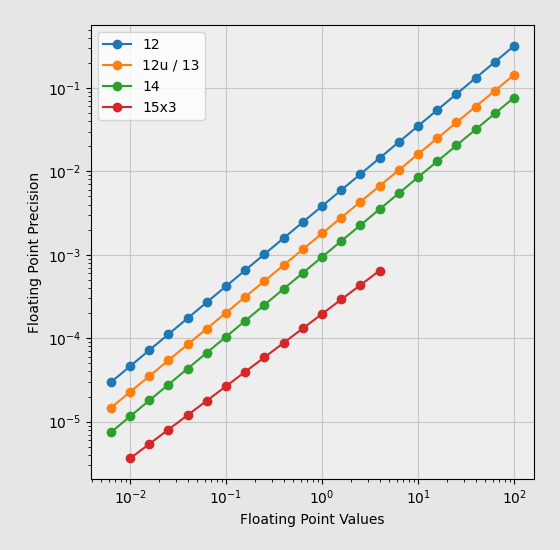
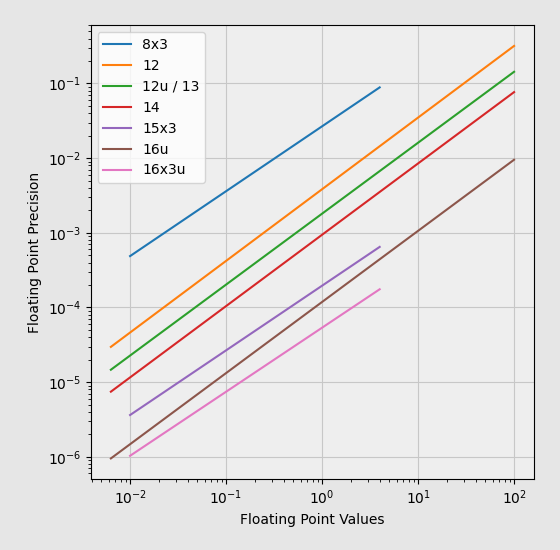
README.md

diff --git a/conversion_test.go b/conversion_test.go
@@ -47,15 +47,15 @@ func getToyfloatPositiveSample() []struct {
 // ------------------------
 
 func TestX3BadArguments(t *testing.T) {
-	for i := -10; i <= 4; i++ {
-		if i <= 4 {
+	for i := -10; i <= 20; i++ {
+		if (i <= 4) || (i > 16) {
 			_, e := NewTypeX3(i, true)
 			if e == nil {
 				t.Fatalf("length=%d must result in an error", i)
 			}
 		}
 
-		if i <= 3 {
+		if (i <= 3) || (i > 16) {
 			_, e := NewTypeX3(i, false)
 			if e == nil {
 				t.Fatalf("length=%d must result in an error (unsigned)", i)
@@ -65,15 +65,15 @@ func TestX3BadArguments(t *testing.T) {
 }
 
 func TestX4BadArguments(t *testing.T) {
-	for i := -10; i <= 4; i++ {
-		if i <= 5 {
+	for i := -10; i <= 20; i++ {
+		if (i <= 5) || (i > 16) {
 			_, e := NewTypeX4(i, true)
 			if e == nil {
 				t.Fatalf("length=%d must result in an error", i)
 			}
 		}
 
-		if i <= 4 {
+		if (i <= 4) || (i > 16) {
 			_, e := NewTypeX4(i, false)
 			if e == nil {
 				t.Fatalf("length=%d must result in an error (unsigned)", i)
@@ -1430,64 +1430,81 @@ func TestReadme(t *testing.T) {
 	const input = 0.345
 	const eps = 1e-6
 
+	toyfloat12, err12 := NewTypeX4(12, true)
+	if err12 != nil {
+		t.Fatal(err12)
+	}
+
+	toyfloat12u, err12u := NewTypeX4(12, false)
+	if err12u != nil {
+		t.Fatal(err12)
+	}
+
+	toyfloat13, err13 := NewTypeX4(13, true)
+	if err13 != nil {
+		t.Fatal(err13)
+	}
+
+	toyfloat14, err14 := NewTypeX4(14, true)
+	if err14 != nil {
+		t.Fatal(err14)
+	}
+
+	toyfloat15x3, err15x3 := NewTypeX3(15, true)
+	if err15x3 != nil {
+		t.Fatal(err15x3)
+	}
+
 	{
-		tf := Encode12(input)
+		tf := toyfloat12.Encode(input)
 		if tf != 0x332 {
 			t.Fatalf("Incorrect encoded: 0x%X (12-bit)\n", tf)
 		}
 
-		result := Decode12(tf)
+		result := toyfloat12.Decode(tf)
 		if math.Abs(result-0.345098) > eps {
 			t.Fatalf("Incorrect decoded: %f (12-bit)\n", result)
 		}
 	}
 
 	{
-		tf := Encode12U(input)
+		tf := toyfloat12u.Encode(input)
 		if tf != 0x664 {
 			t.Fatalf("Incorrect encoded: 0x%X (12-bit unsigned)\n", tf)
 		}
 	}
 
 	{
-		tf := Encode13(input)
+		tf := toyfloat13.Encode(input)
 		if tf != 0x664 {
 			t.Fatalf("Incorrect encoded: 0x%X (13-bit)\n", tf)
 		}
 
-		result := Decode13(tf)
+		result := toyfloat13.Decode(tf)
 		if math.Abs(result-0.345098) > eps {
 			t.Fatalf("Incorrect decoded: %f (13-bit)\n", result)
 		}
 	}
 
 	{
-		tf := Encode14(input)
+		tf := toyfloat14.Encode(input)
 		if tf != 0xCC8 {
 			t.Fatalf("Incorrect encoded: 0x%X (14-bit)\n", tf)
 		}
 
-		result := Decode14(tf)
+		result := toyfloat14.Decode(tf)
 		if math.Abs(result-0.345098) > eps {
 			t.Fatalf("Incorrect decoded: %f (14-bit)\n", result)
 		}
 	}
 
 	{
-		tf := Encode15X3(input)
+		tf := toyfloat15x3.Encode(input)
 		if tf != 0x235E {
 			t.Fatalf("Incorrect encoded: 0x%X (15x3)\n", tf)
 		}
 
-		result := Decode15X3(tf)
-		if math.Abs(result-0.344990) > eps {
-			t.Fatalf("Incorrect decoded: %f (15x3)\n", result)
-		}
-	}
-
-	{
-		tf := Encode15X3(input)
-		result := Decode15X3(tf)
+		result := toyfloat15x3.Decode(tf)
 		if math.Abs(result-0.344990) > eps {
 			t.Fatalf("Incorrect decoded: %f (15x3)\n", result)
 		}
@@ -1497,11 +1514,11 @@ func TestReadme(t *testing.T) {
 		series := []float64{-0.0058, 0.01, 0.123, 0.134, 0.132, 0.144, 0.145, 0.140}
 		expected := []int{387, 414, 12, -2, 12, 1, -5}
 
-		previous := Encode12(series[0])
+		previous := toyfloat12.Encode(series[0])
 		for i := 1; i < len(series); i++ {
-			this := Encode12(series[i])
+			this := toyfloat12.Encode(series[i])
 
-			delta := GetIntegerDelta12(previous, this)
+			delta := toyfloat12.GetIntegerDelta(previous, this)
 			expectedDelta := expected[i-1]
 
 			if delta != expectedDelta {

diff --git a/images/gen_precision.go b/images/gen_precision.go
@@ -35,24 +35,81 @@ func generate(fn string, encodeDecode func(x float64) float64) {
 	}
 }
 
+func exitOnError(err error) {
+	if err != nil {
+		println("impossible type")
+		os.Exit(1)
+	}
+}
+
 func main() {
+	toyfloat12, err12 := toyfloat.NewTypeX4(12, true)
+	exitOnError(err12)
+
+	toyfloat12u, err12u := toyfloat.NewTypeX4(12, false)
+	exitOnError(err12u)
+
+	toyfloat13, err13 := toyfloat.NewTypeX4(13, true)
+	exitOnError(err13)
+
+	toyfloat14, err14 := toyfloat.NewTypeX4(14, true)
+	exitOnError(err14)
+
+	toyfloat15x3, err15x3 := toyfloat.NewTypeX3(15, true)
+	exitOnError(err15x3)
+
+	toyfloat8x3, err8x3 := toyfloat.NewTypeX3(8, true)
+	exitOnError(err8x3)
+
+	toyfloat4x3u, err4x3u := toyfloat.NewTypeX3(4, false)
+	exitOnError(err4x3u)
+
+	toyfloat16, err16 := toyfloat.NewTypeX4(16, true)
+	exitOnError(err16)
+
+	toyfloat16u, err16u := toyfloat.NewTypeX4(16, false)
+	exitOnError(err16u)
+
+	toyfloat16x3u, err16x3u := toyfloat.NewTypeX3(16, false)
+	exitOnError(err16x3u)
+
 	generate("precision12.tsv", func(x float64) float64 {
-		return toyfloat.Decode12(toyfloat.Encode12(x))
+		return toyfloat12.Decode(toyfloat12.Encode(x))
 	})
 
 	generate("precision12u.tsv", func(x float64) float64 {
-		return toyfloat.Decode12U(toyfloat.Encode12U(x))
+		return toyfloat12u.Decode(toyfloat12u.Encode(x))
 	})
 
 	generate("precision13.tsv", func(x float64) float64 {
-		return toyfloat.Decode13(toyfloat.Encode13(x))
+		return toyfloat13.Decode(toyfloat13.Encode(x))
 	})
 
 	generate("precision14.tsv", func(x float64) float64 {
-		return toyfloat.Decode14(toyfloat.Encode14(x))
+		return toyfloat14.Decode(toyfloat14.Encode(x))
 	})
 
 	generate("precision15x3.tsv", func(x float64) float64 {
-		return toyfloat.Decode15X3(toyfloat.Encode15X3(x))
+		return toyfloat15x3.Decode(toyfloat15x3.Encode(x))
+	})
+
+	generate("precision8x3.tsv", func(x float64) float64 {
+		return toyfloat8x3.Decode(toyfloat8x3.Encode(x))
+	})
+
+	generate("precision4x3u.tsv", func(x float64) float64 {
+		return toyfloat4x3u.Decode(toyfloat4x3u.Encode(x))
+	})
+
+	generate("precision16.tsv", func(x float64) float64 {
+		return toyfloat16.Decode(toyfloat16.Encode(x))
+	})
+
+	generate("precision16u.tsv", func(x float64) float64 {
+		return toyfloat16u.Decode(toyfloat16u.Encode(x))
+	})
+
+	generate("precision16x3u.tsv", func(x float64) float64 {
+		return toyfloat16x3u.Decode(toyfloat16x3u.Encode(x))
 	})
 }

diff --git a/images/plot.py b/images/plot.py
@@ -100,17 +100,26 @@ def make_comparison(result_fn):
     figure.set_size_inches(5.6, 5.5)
     plt.subplots_adjust(left=0.162, bottom=0.129, right=0.954, top=0.954)
 
+    values, precision = get_comparison_data('precision8x3.tsv', minPowerX10=-20, maxPowerX10=8)
+    plt.plot(values, precision, '-', label='8x3')
+
     values, precision = get_comparison_data('precision12.tsv')
-    plt.plot(values, precision, 'o-', label='12')
+    plt.plot(values, precision, '-', label='12')
 
     values, precision = get_comparison_data('precision13.tsv')
-    plt.plot(values, precision, 'o-', label='12u / 13')
+    plt.plot(values, precision, '-', label='12u / 13')
 
     values, precision = get_comparison_data('precision14.tsv')
-    plt.plot(values, precision, 'o-', label='14')
+    plt.plot(values, precision, '-', label='14')
 
     values, precision = get_comparison_data('precision15x3.tsv', minPowerX10=-20, maxPowerX10=8)
-    plt.plot(values, precision, 'o-', label='15x3')
+    plt.plot(values, precision, '-', label='15x3')
+
+    values, precision = get_comparison_data('precision16u.tsv')
+    plt.plot(values, precision, '-', label='16u')
+
+    values, precision = get_comparison_data('precision16x3u.tsv', minPowerX10=-20, maxPowerX10=8)
+    plt.plot(values, precision, '-', label='16x3u')
 
     ax.legend()
 
@@ -123,5 +132,10 @@ if __name__ == "__main__":
     make_image('precision13.tsv', 'precision13.png')
     make_image('precision14.tsv', 'precision14.png')
     make_image('precision15x3.tsv', 'precision15x3.png')
+    make_image('precision8x3.tsv', 'precision8x3.png')
+    make_image('precision4x3u.tsv', 'precision4x3u.png')
+    make_image('precision16.tsv', 'precision16.png')
+    make_image('precision16u.tsv', 'precision16u.png')
+    make_image('precision16x3u.tsv', 'precision16x3u.png')
 
     make_comparison('comparison.png')

diff --git a/README.md b/README.md
@@ -1,6 +1,6 @@
 # Toyfloat
 
-It encodes and decodes floating-point numbers with a width of 12 to 15 bits.
+It encodes and decodes floating-point numbers with a width of 4 to 16 bits.
 
 Expected applications:
 
@@ -35,40 +35,60 @@ package main
 import (
 	"fmt"
 	"github.com/georgy7/toyfloat"
+	"os"
 )
+
+func exitOnError(err error) {
+	if err != nil {
+		println("impossible type")
+		os.Exit(1)
+	}
+}
 
 func main() {
 	println()
 
-	tf := toyfloat.Encode12(0.345)
+	toyfloat12, err12 := toyfloat.NewTypeX4(12, true)
+	exitOnError(err12)
+
+	toyfloat13, err13 := toyfloat.NewTypeX4(13, true)
+	exitOnError(err13)
+
+	toyfloat14, err14 := toyfloat.NewTypeX4(14, true)
+	exitOnError(err14)
+
+	toyfloat15x3, err15x3 := toyfloat.NewTypeX3(15, true)
+	exitOnError(err15x3)
+
+	tf := toyfloat12.Encode(0.345)
 	fmt.Printf("0x%X\n", tf)
 
-	f := toyfloat.Decode12(tf)
+	f := toyfloat12.Decode(tf)
 	fmt.Printf("%f\n\n", f)
 
-	tf = toyfloat.Encode13(0.345)
+	tf = toyfloat13.Encode(0.345)
 	fmt.Printf("0x%X\n", tf)
 
-	f = toyfloat.Decode13(tf)
+	f = toyfloat13.Decode(tf)
 	fmt.Printf("%f\n\n", f)
 
-	tf = toyfloat.Encode14(0.345)
+	tf = toyfloat14.Encode(0.345)
 	fmt.Printf("0x%X\n", tf)
 
-	f = toyfloat.Decode14(tf)
+	f = toyfloat14.Decode(tf)
 	fmt.Printf("%f\n\n", f)
 
-	tf = toyfloat.Encode15X3(0.345)
+	tf = toyfloat15x3.Encode(0.345)
 	fmt.Printf("0x%X\n", tf)
 
-	f = toyfloat.Decode15X3(tf)
+	f = toyfloat15x3.Decode(tf)
 	fmt.Printf("%f\n\n", f)
 
 	series := []float64{-0.0058, 0.01, 0.123, 0.134, 0.132, 0.144, 0.145, 0.140}
-	previous := toyfloat.Encode12(series[0])
+	previous := toyfloat12.Encode(series[0])
 	for i := 1; i < len(series); i++ {
-		this := toyfloat.Encode12(series[i])
-		delta := toyfloat.GetIntegerDelta12(previous, this)
+		this := toyfloat12.Encode(series[i])
+		delta := toyfloat12.GetIntegerDelta(previous, this)
 		fmt.Printf("%d\n", delta)
 		previous = this
 	}

diff --git a/CHANGELOG.md b/CHANGELOG.md
@@ -4,6 +4,13 @@ All notable changes to this project will be documented in this file.
 The format is based on [Keep a Changelog](https://keepachangelog.com/en/1.0.0/),
 and this project adheres to [Semantic Versioning](https://semver.org/spec/v2.0.0.html).
 
+## [1.6.0] - 2022-01-04
+### Added
+- Fully customizable object-oriented API.
+
+### Deprecated
+- All preconfigured methods.
+
 ## [1.5.0] - 2022-01-01
 ### Removed
 - `Default`, `14` and `m11x3` types.
